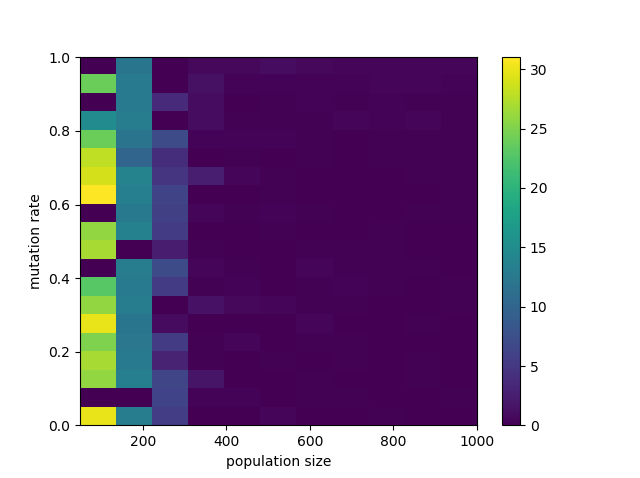
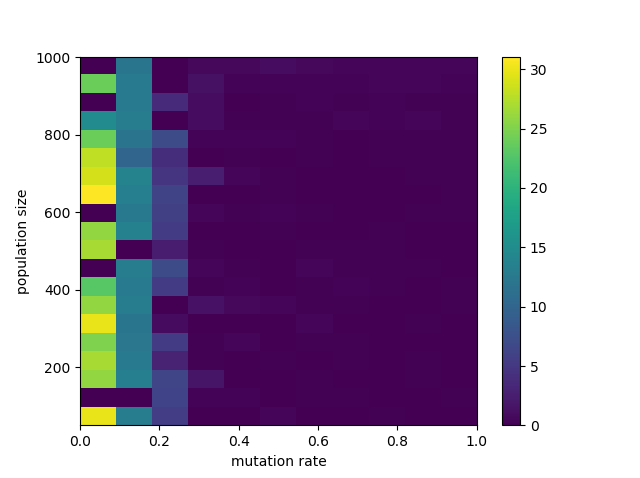
finished readme

diff --git a/Tarea2/heatmap.py b/Tarea2/heatmap.py
@@ -19,9 +19,9 @@ if __name__ == "__main__":
             rating.append(y2[-1])
             print("Computing... population size = {}, mutation rate = {}".format(i, j))
     rating = np.array(rating).reshape(pop_range.size, mut_range.size)
-    plt.imshow(rating,extent=[pop_range.min(),pop_range.max(),mut_range.min(),mut_range.max()], aspect="auto")
-    plt.xlabel("population size")
-    plt.ylabel("mutation rate")
+    plt.imshow(rating,extent=[mut_range.min(),mut_range.max(),pop_range.min(),pop_range.max()], aspect="auto")
+    plt.ylabel("population size")
+    plt.xlabel("mutation rate")
     plt.colorbar()
     plt.show()
 

diff --git a/Tarea2/README.md b/Tarea2/README.md
@@ -1,2 +1,36 @@
+# Tarea 2
+En este repositorio se encuentra la implementación de una librería básica de un algoritmo genético, además de tres ejemplos del uso de esta:
+* Encontrar un string binario (archivo binary_finder.py)
+* Encontrar un string cualquiera (archivo string_finder.py)
+* Encontrar una solución al problema unbound Knapsack (archivo knapsack.py)
+Esta librería fue escrita en python 3.7 con la ayuda de algunas librerías (numpy, matplotlib).
+
+### Implementación
+La implementación completa de la librería se encuentra en el archivo genetic_algorithm.py. En el se implementaron dos clases, una para representar
+a un individuo con sus genes y otra para representar a una población de estos. Se tuvo cuidado de mantener la implementación lo 
+más genérica posible para permitir la implementación de los ejemplos sin ninguna modificación.
+Se implementó directamente el proceso de elitismo para mantener al mejor individuo de cada generación y que el fitness máximo no baje.
+En cuanto al problema escogido (unbound knapsack), se definió cada gen como una tupla (x, y) en donde x representa el peso de una caja
+e y representa su valor. Además de las cajas especificadas se agregó la caja (0, 0) para representar la no elección de las otras.
+
+En cuanto a la función de firness para el problema, se escogió como la suma del valor de todas las cajas escogidas como valor de fitness, pero
+se penalizaba fuertemente (con fitness 0) a individuos en donde la suma total de los pesos de las cajas sobrepasara los 15kg. Cabe destacar que
+cada individuo puede tener un máximo de 15 genes (15 cajas), ya que teniendo en cuenta los valores predeterminados es el máximo número de cajas
+del tipo (1, 1) que aún cumplen con el requisito de no sobrepasar el peso
+
+### Resultados
+En primer lugar se hizo un gráfico de como evoluciona la población en el problema knapsack para una población de 1000 individuos con una tasa de mutaciópn del 10%:
 ![fitness evolution](/Tarea2/img/Figure_2.png)
+Se puede observar que el máximo valor de fitness se alcanza a las 20 generaciones, al igual que el fitness promedio de la población.
+
+Luego se hizo un gráfico de configuración de hiperparámetros (cantidad de individuos y tasa de mutación) para poder observar los parámetros óptimos
+que permiten llevar a la solución:
 ![configuration heatmap](/Tarea2/img/Figure_1.png)
+Lo que se codifica en color es el fitness promedio de la población hasta encontrar el óptimo (o superar las 200 generaciones, en tal caso el óptimo no se encontró).
+
+### Análisis
+Del primer gráfico se puede desprender que el algoritmo funciona según lo previsto, se alcanza el óptimo en pocas generaciones y el elitismo funciona correctamente. El mínimo se mantiene constante debido a que en cada generación se pueden generar con alta probabilidad individuos con peso mayor a 15kg en el proceso de crossover.
+
+Del segundo gráfico, se puede decir que para la codificación escogida del problema de knapsack, se favorecen hiperparámetros con baja mutación, independiente del tamaño de la población, en cuanto a fitness promedio se refiere.
+
+Como conclusión general, se obtuvieron buenos resultados con el algoritmo, el cual puede resultar útil para resolver diversos problemas de optimización mientras se puedan adaptar con una codificación adecuada.
